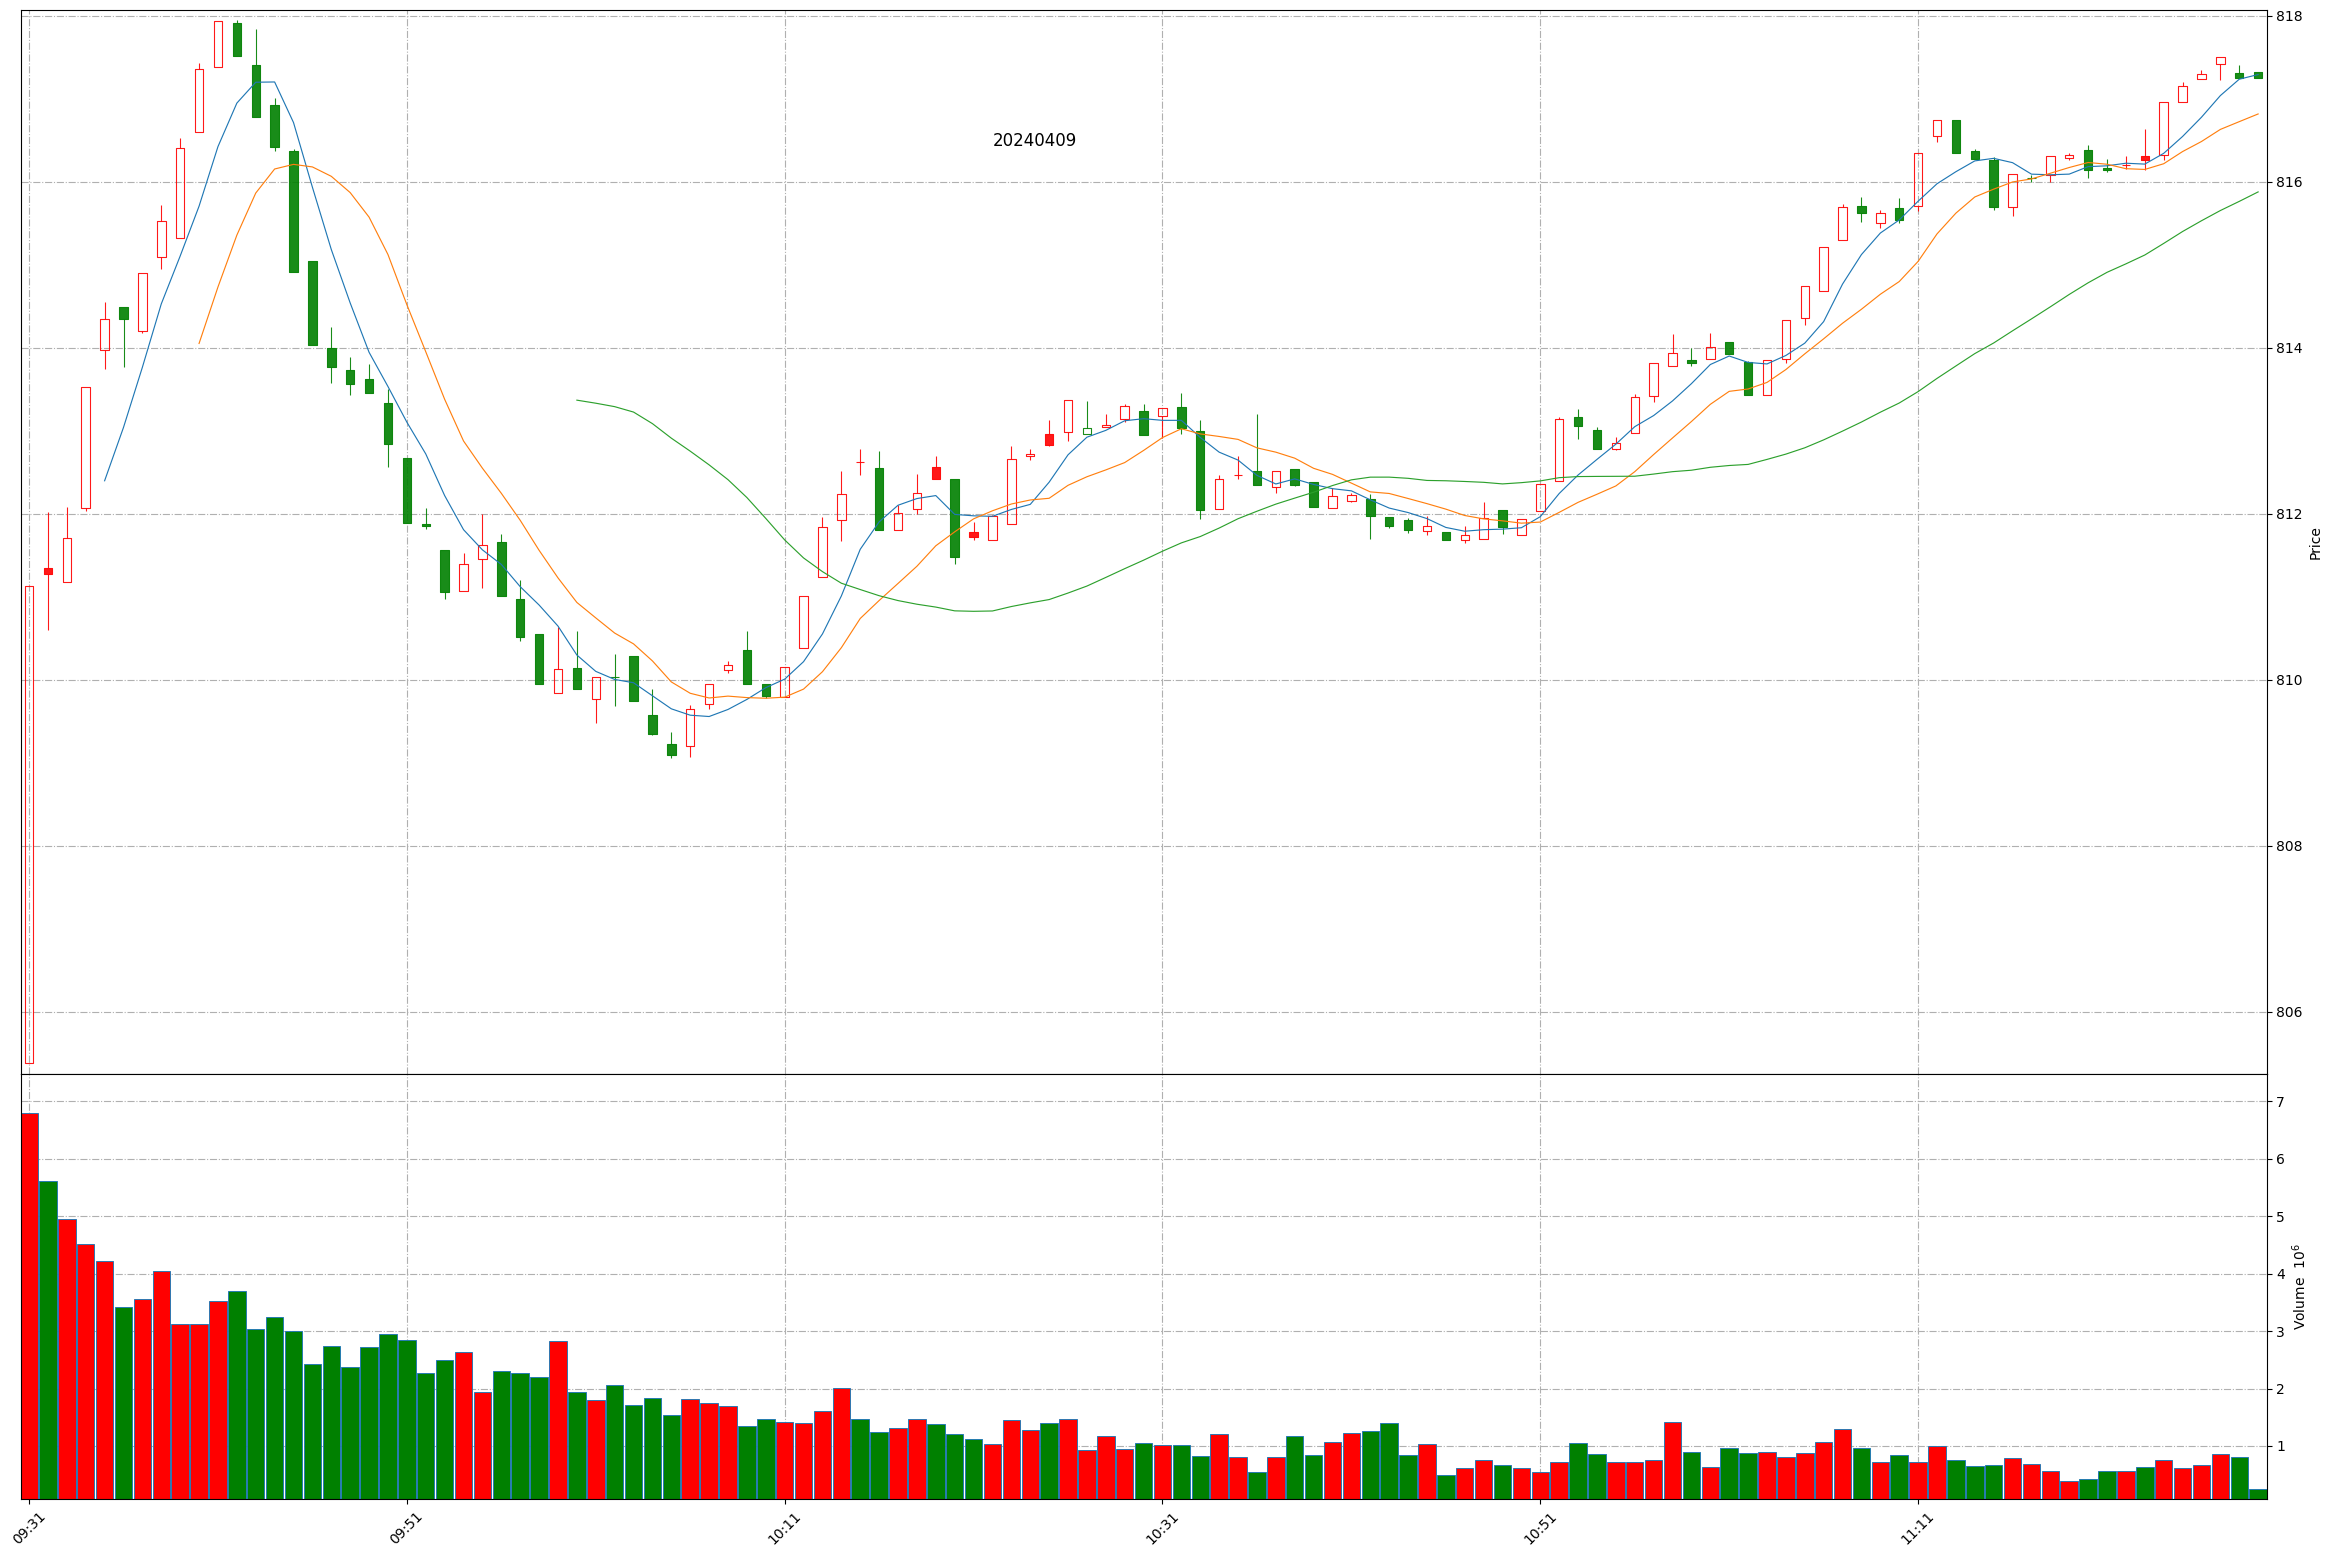
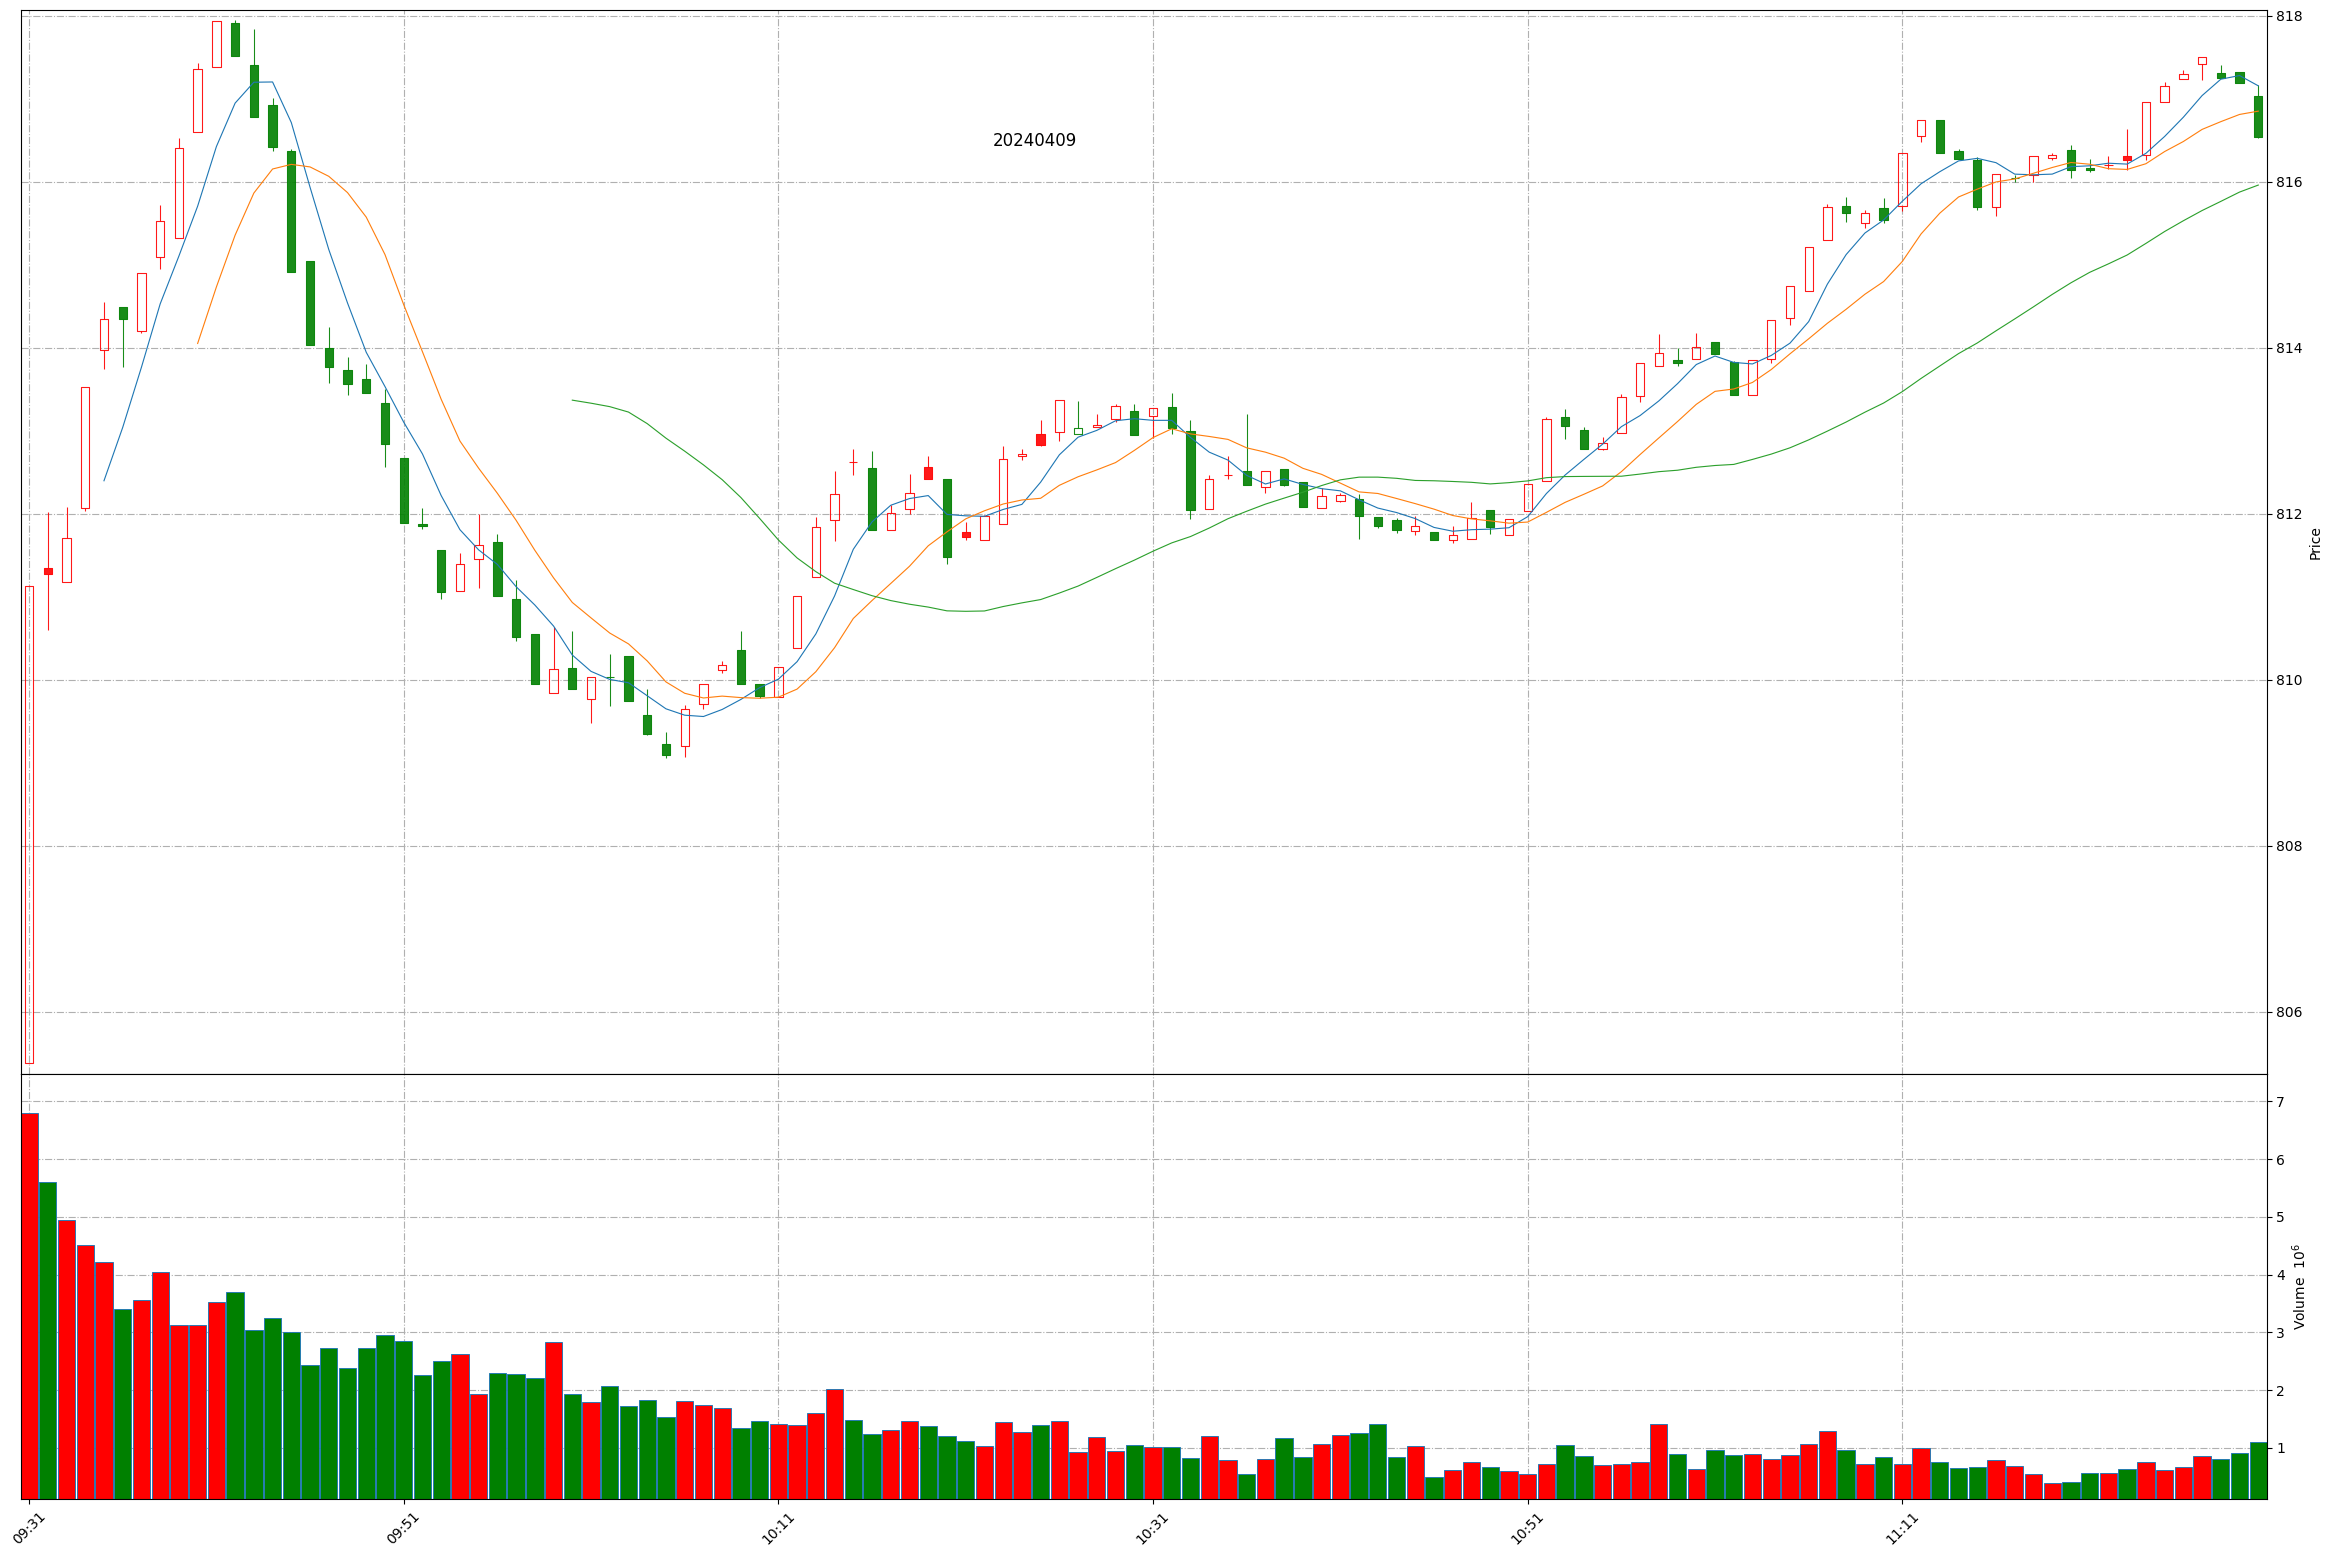
Github action update at 2024-04-09 11:35:57.

diff --git a/README.md b/README.md
@@ -1,11 +1,11 @@
 
 # Daily-A-share-market-quotes 每日 A 股指数（5min 更新）- 20240409
 
-### 上证指数 20240409 11:28
+### 上证指数 20240409 11:35
 ![](./fig/2024/4/20240409-sh000001.png)
 
-### 深证成指 20240409 11:28
+### 深证成指 20240409 11:35
 ![](./fig/2024/4/20240409-sz399001.png)
 
-### 北证50 20240409 11:28
+### 北证50 20240409 11:35
 ![](./fig/2024/4/20240409-bj899050.png)
